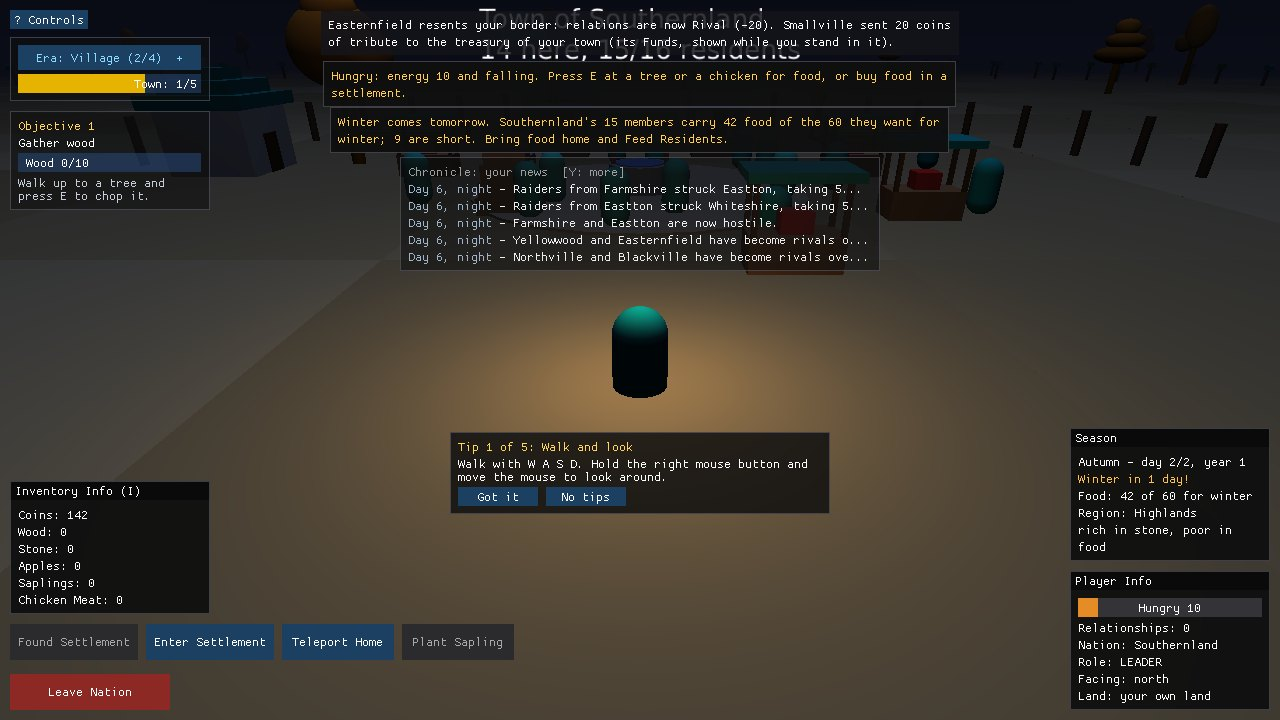
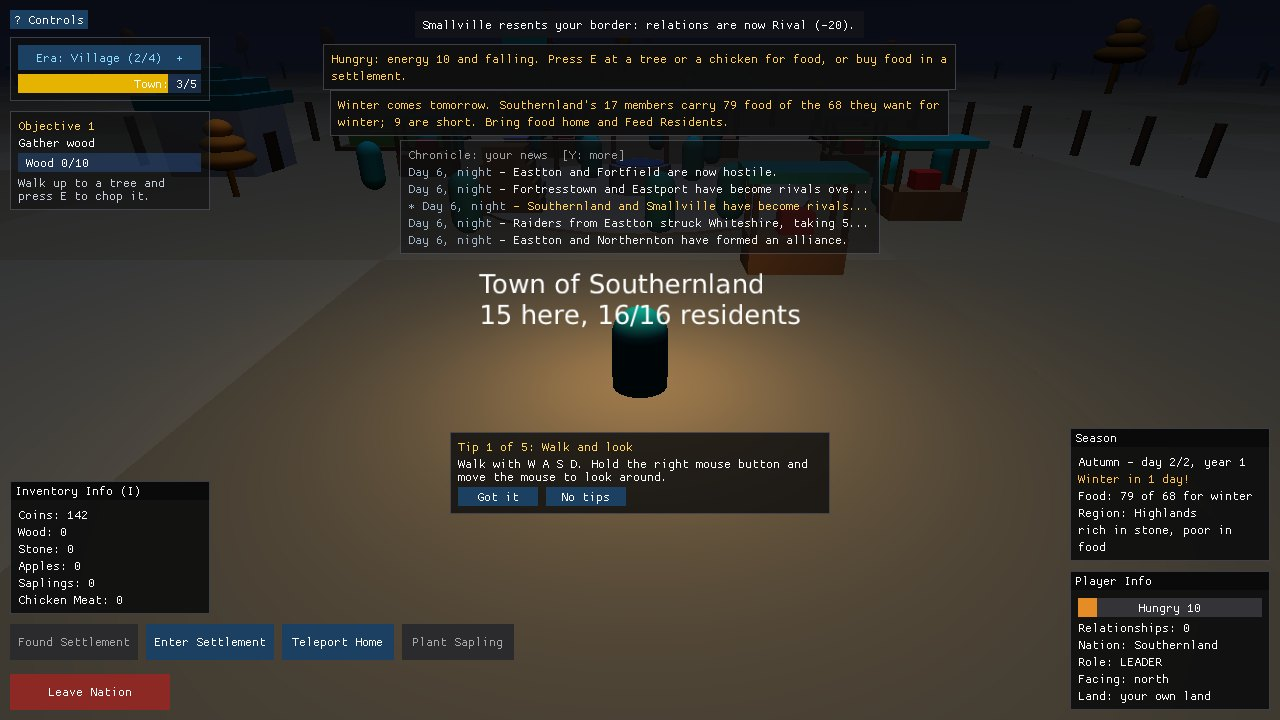
Before/after shots of the phone and desktop fixes; refresh the README's town and winter shots

Changed region(s): [[0.2188, 0.0, 0.7812, 0.4583], [0.1562, 0.1528, 0.2188, 0.275], [0.0938, 0.0917, 0.1562, 0.1528]]

diff --git a/README.md b/README.md
@@ -242,7 +242,7 @@ Loyalty is how each member feels about you. Push someone to -15 and they desert,
 The year turns: **spring**, **summer**, **autumn** and **winter**, two in-game days each, so a year is about 80 minutes of play. Spring and summer are easy and chickens hatch; in autumn farms yield double, and it is time to lay in food, because in **winter** farms yield nothing, saplings grow slowly, and the cold makes you (and every pawn) burn energy faster outdoors. Pawns lay in food from autumn and keep closer to home in winter. The ground and the leaves change colour with the season, and the Season box (above the player box) shows the season, warns *Winter in 2 days*, shows how much food your nation's people carry for winter, and names the land you stand on. The day before winter the chronicle and a banner say whether your nation is ready; carry food home and *Feed Residents* lays it in for them. You eat what you carry on your own, without wasting a rich meal on a nearly full stomach, or press *Eat* to eat now.
 
 <!-- darkroom:shot winter-warning -->
-![The night before winter in the town of Southernland: a banner says winter comes tomorrow and that 9 of the nation's 15 members are short of the food they want, the player's own hunger banner sits above it, and the Season box reads Autumn, day 2 of 2, Winter in 1 day, food 42 of 60 for winter](.github/media/winter-warning.jpg)
+![The night before winter in the town of Southernland: a banner says winter comes tomorrow and that 9 of the nation's 17 members are short of the food they want, the player's own hunger banner sits above it, the town's name floats below the chronicle, and the Season box reads Autumn, day 2 of 2, Winter in 1 day, food 79 of 68 for winter](.github/media/winter-warning.jpg)
 
 *The day before winter: the banner, the chronicle and the Season box say what the nation carries.*
 <!-- darkroom:end -->

diff --git a/docs/WEB.md b/docs/WEB.md
@@ -116,6 +116,8 @@ game lays its screens out for a finger (`TouchLayout` in
   stacked HUD, is left out while it would sit under it.
 - A line too wide for the screen (a panel footer on a phone held upright) is
   drawn smaller rather than cut off at both edges.
+
+  <img src="screenshots/phone-ui-leftovers/phone-town-pair.jpg" alt="A phone held upright in a town, before and after: before, the tip card covers Enter Settlement and Teleport Home and the town's name is cut off at the top behind the boxes; after, the Season box is compact, the tip sits over the chronicle strip, the command bar is clear, and the name is left out" width="420">
 - No line names a key or a mouse button: objective hints, status lines, panel
   footers, the chronicle and the tips name the button instead ("press Use",
   "Realm", "Tap Close"), all from one table (`ObjectiveKeyNames`), and the
